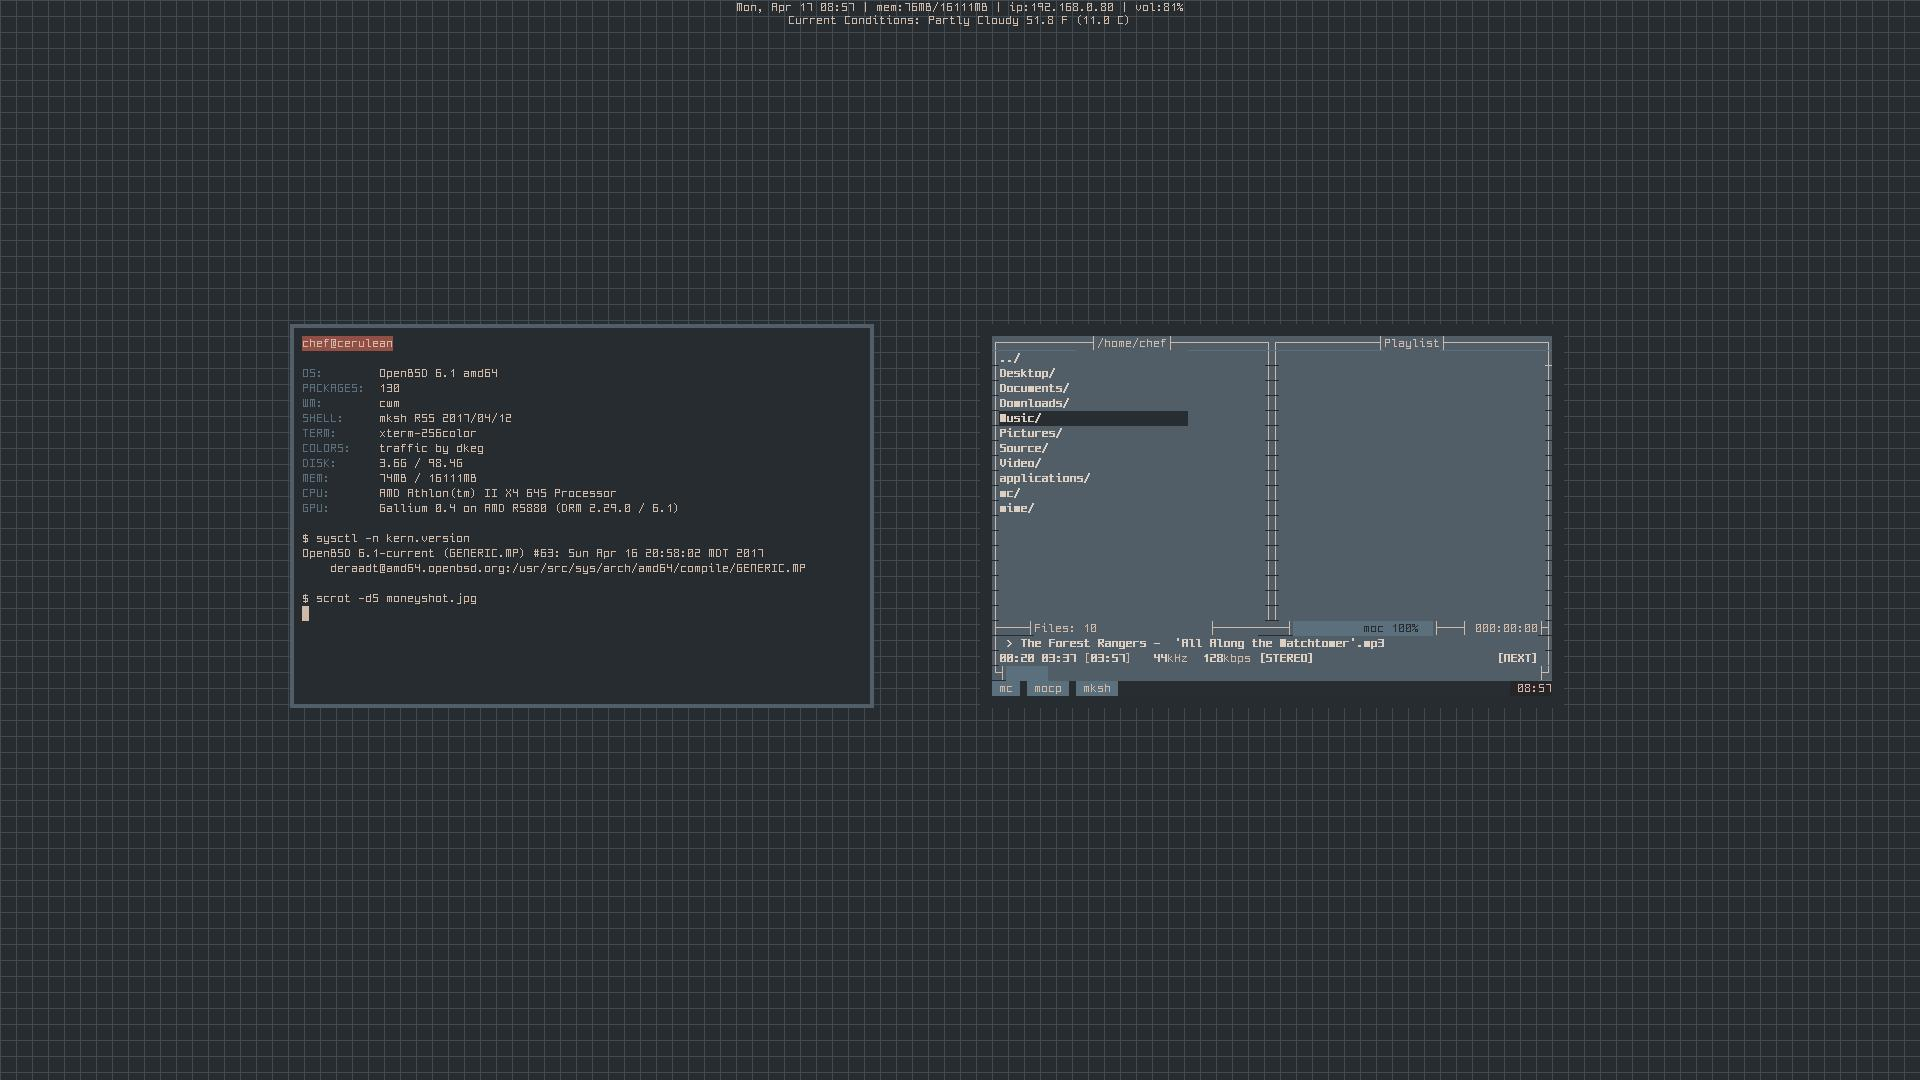
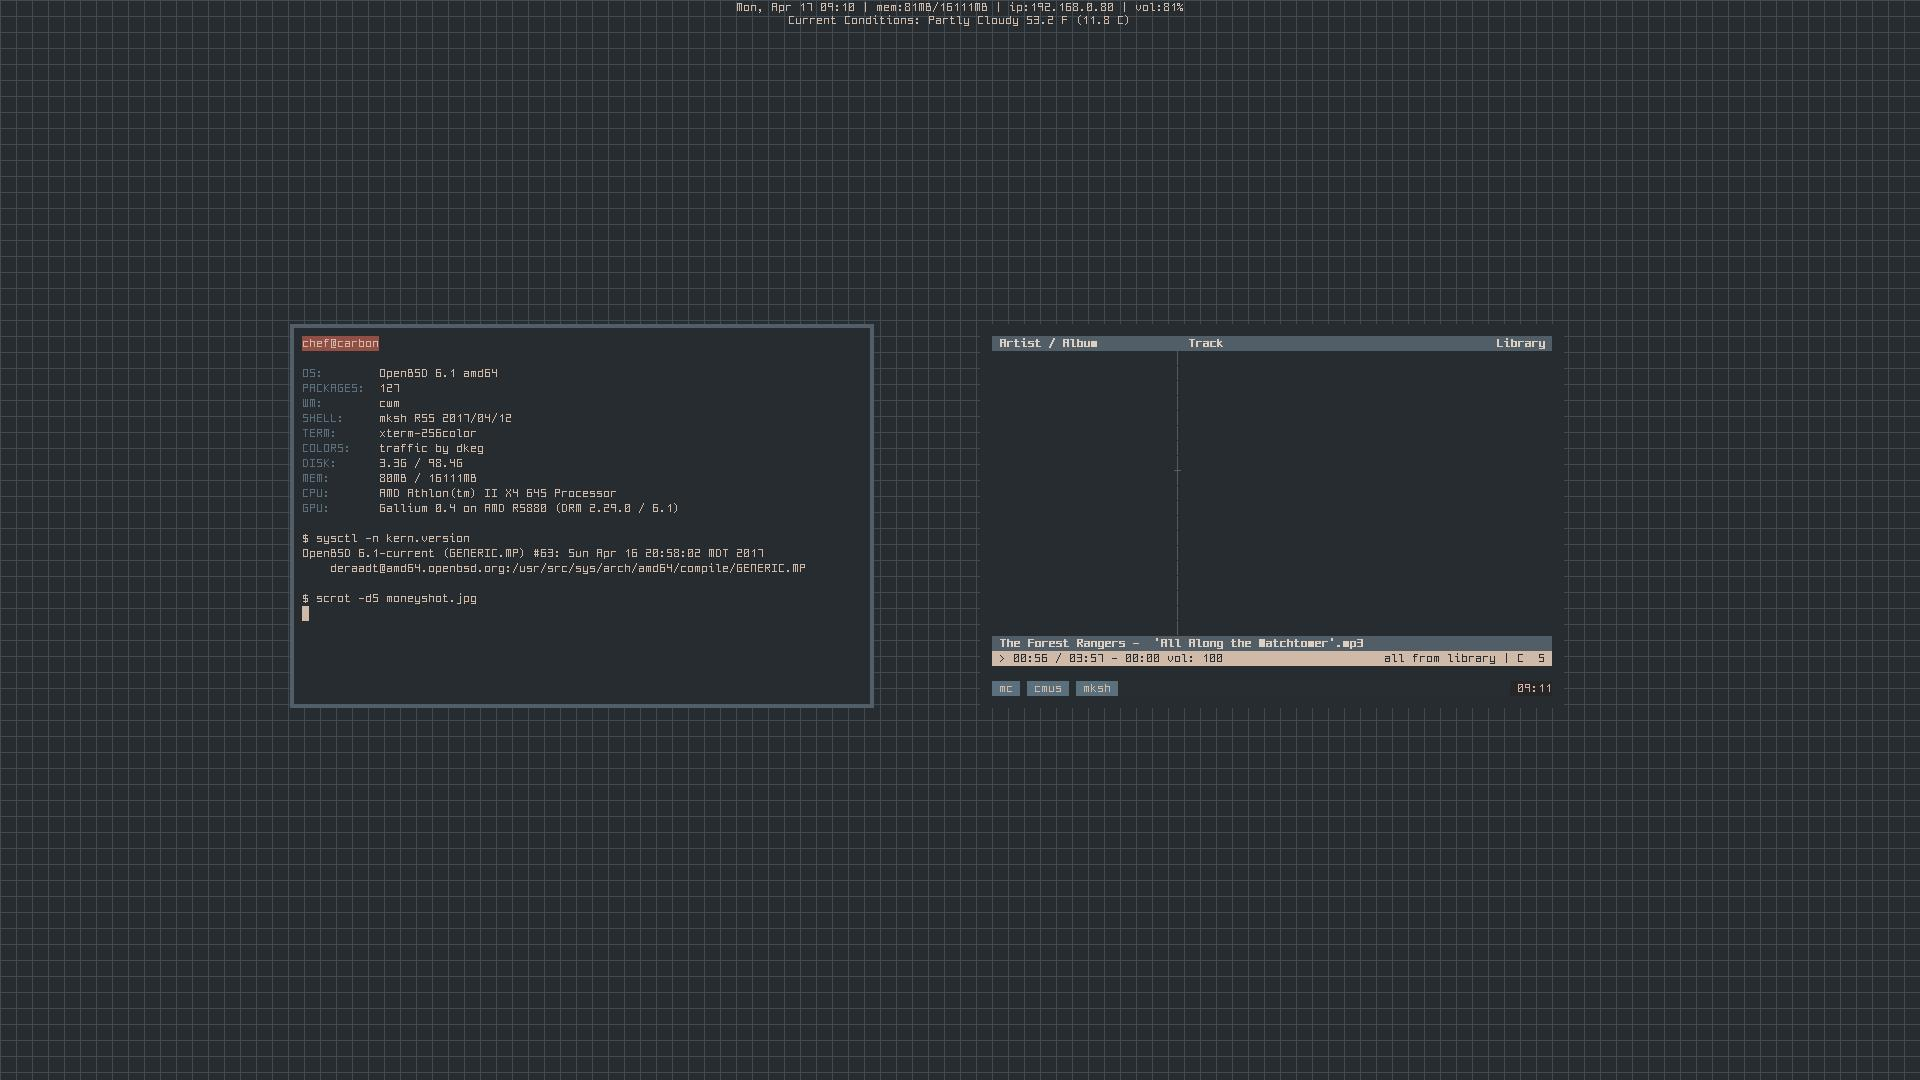
adds and tweaks

Changed region(s): [[0.5, 0.3056, 0.8125, 0.6417], [0.1875, 0.3056, 0.2188, 0.3361]]

diff --git a/README.md b/README.md
@@ -6,13 +6,13 @@ Current Setups
 
    Distro: FreeBSD (amd64) laptop / OpenBSD (amd64)
    
-   Window Manager: wmutils / cwm 
+   Window Manager: cwm 
    
    Bar: lemonbar / osd_cat
    
    Launcher: dmenu
    
-   Terminal Emulator: st / xterm
+   Terminal Emulator: xterm
    
    Shell: bash / mksh
    
@@ -22,9 +22,9 @@ Current Setups
    
    Text Editor: vim / geany
    
-   Color Scheme: zenblue / traffic by dkeg 
+   Color Scheme: zenblue / traffic 
    
-   Music Player: mpd / mpg123 / cmus
+   Music Player: cmus / mpg123
    
    Browser: firefox
    
